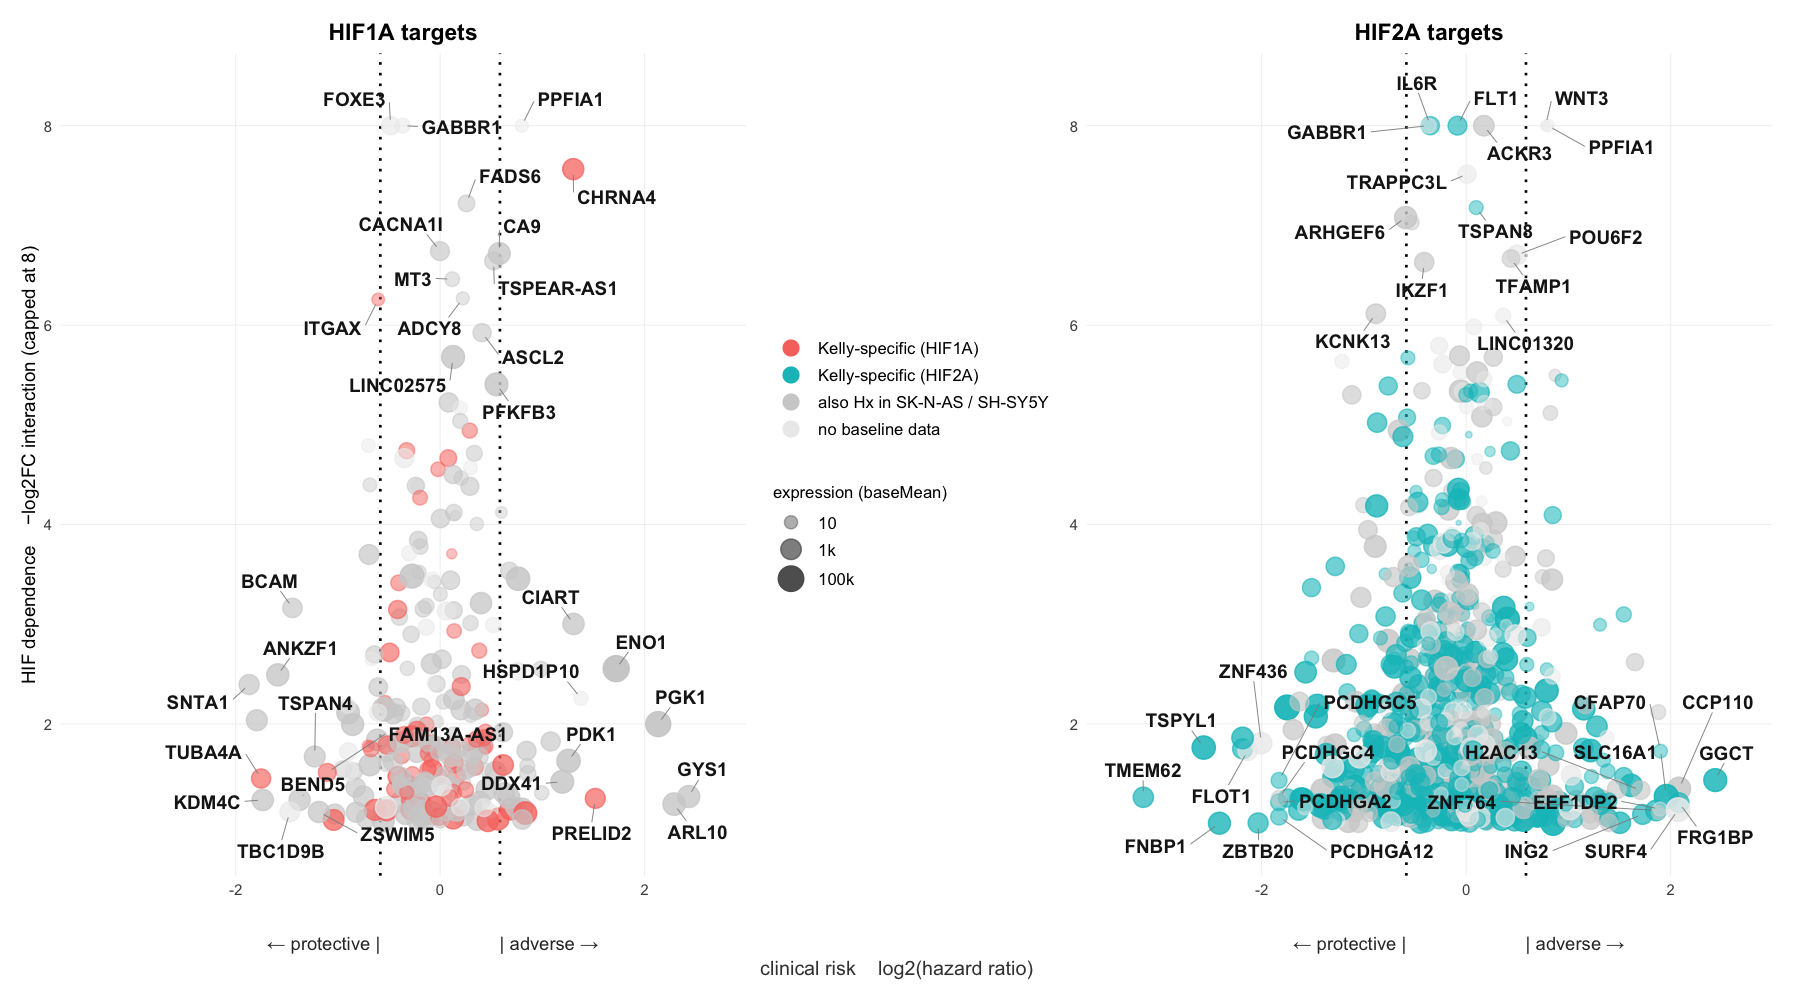
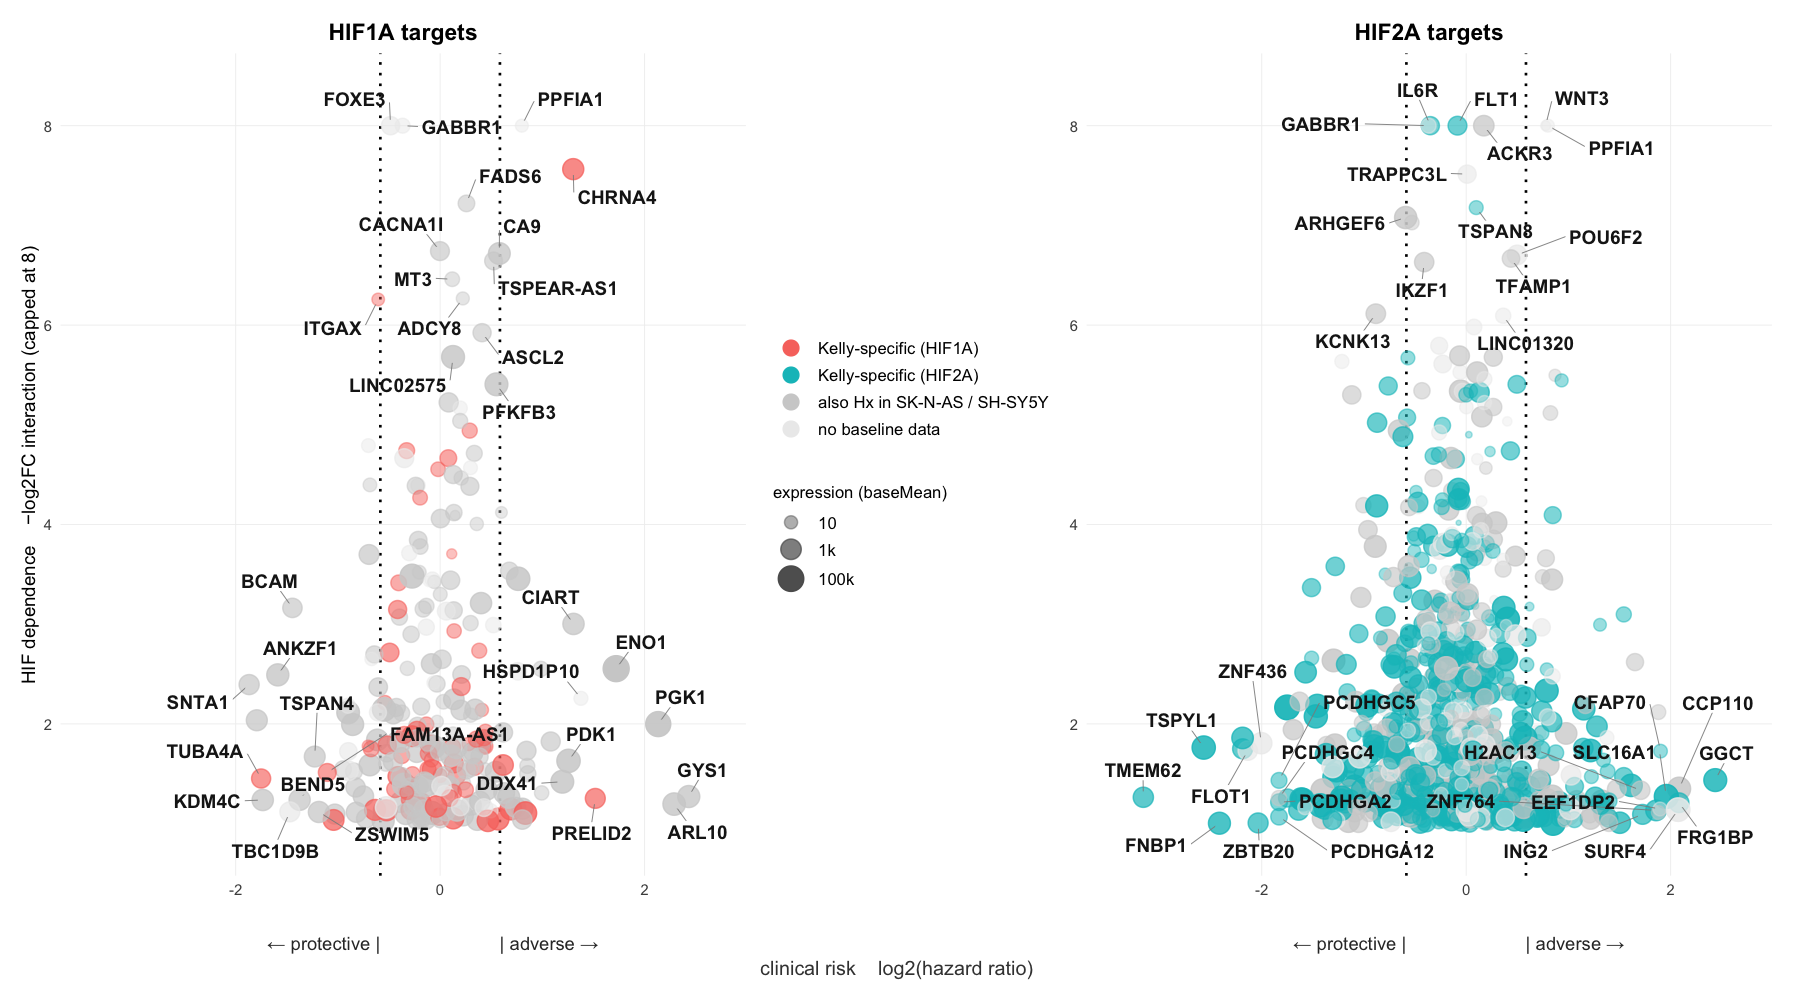
UMAP panels in 2x3 layout, KO panels removed

diff --git a/6_XM_data_merge/Dive.md b/6_XM_data_merge/Dive.md
@@ -1404,8 +1404,7 @@ amplification is shown as a colour only.
 Every column is scaled, and every block is divided by √(number of
 columns), so each block weighs the same regardless of how many columns
 it has. The panels show the same embedding, coloured by one variable
-each; the KO panels show the difference of the Hx response between the
-KO and Kelly WT.
+each.
 
 <details>
 
@@ -1437,8 +1436,6 @@ ud <- tibble(Ensembl = umap_ens, U1 = umap_xy[, 1], U2 = umap_xy[, 2],
              target   = ifelse(umap_ens %in% names(targets), targets[umap_ens], "none"),
              pattern  = hx_pattern(umap_ens),
              kelly    = hx_resp_all[umap_ens, "Kelly"],
-             hif1a_ko = hx_resp_all[umap_ens, "HIF1A KO"] - hx_resp_all[umap_ens, "Kelly"],
-             hif2a_ko = hx_resp_all[umap_ens, "HIF2A KO"] - hx_resp_all[umap_ens, "Kelly"],
              bm       = log10(bm_mat[umap_ens, "Kelly"] + 1),
              hr       = log2_hr[umap_ens],
              amp      = tum_contrast[match(umap_ens, rownames(tum_contrast)), 1])
@@ -1463,18 +1460,16 @@ umap_num <- function(col, lim, title, name, low = "#2166AC", high = "#B2182B") {
     ggtitle(title) + umap_theme
 }
 
-umap_cat("target", c(grp_cols[c("HIF1A", "both", "HIF2A")], none = "grey85"), "HIF target") +
-  umap_cat("pattern", c(`all 3 lines` = "#E41A1C", `Kelly + 1 line` = "#FF7F00",
+umap_cat("pattern", c(`all 3 lines` = "#E41A1C", `Kelly + 1 line` = "#FF7F00",
                         `Kelly only` = "#377EB8", `SK/SH only` = "#4DAF4A"), "Responding lines") +
   umap_num("kelly", 3, "Hypoxia response in Kelly", "log2 Hx vs Nx") +
-  umap_num("hif1a_ko", 2, "HIF1A KO vs Kelly WT", "log2 difference") +
-  umap_num("hif2a_ko", 2, "HIF2A KO vs Kelly WT", "log2 difference") +
+  umap_cat("target", c(grp_cols[c("HIF1A", "both", "HIF2A")], none = "grey85"), "HIF target") +
   (ggplot(ud %>% dplyr::arrange(bm), aes(U1, U2, colour = bm)) + geom_point(size = 0.35) +
      scale_colour_gradient(low = "#EFEDF5", high = "#3F007D", name = "log10 baseMean", guide = hm_guide) +
      ggtitle("Expression in Kelly") + umap_theme) +
   umap_num("hr", 1, "Hazard ratio", "log2 HR", low = "#4DAC26", high = "#D01C8B") +
-  umap_num("amp", 0.8, "Tumours: MYCN amp - not (colour only)", "mean z") +
-  patchwork::plot_layout(nrow = 2)
+  umap_num("amp", 0.8, "Tumours: MYCN amp - not", "mean z") +
+  patchwork::plot_layout(nrow = 2, ncol = 3)
 ```
 
 </details>
@@ -1500,10 +1495,6 @@ What the embedding shows:
   Within the induced island the response gets stronger toward the bottom
   right, where the genes induced in all three lines collect; “Kelly
   only” genes fill the weaker top part.
-- **HIF1A vs HIF2A KO.** The HIF2A KO flattens the response broadly:
-  induced genes lose their induction (blue) and repressed genes their
-  repression (red). The HIF1A KO acts much more locally, mainly on the
-  strongly induced shared genes at the bottom right.
 - **The HR splits the repressed island** into an adverse upper part
   (highly expressed, high in MYCN-amplified tumours) and a protective
   lower part. In the induced island the HR is scattered: adverse and
